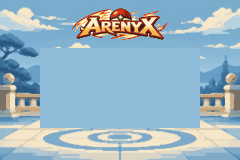
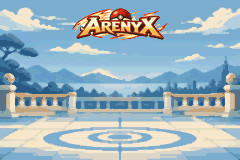
PokePvP (2026-10-14): menu music playlist + OPTIONS music on/off, full-scene menu backdrop, pill ONLINE badge

diff --git a/src/main_menu.c b/src/main_menu.c
@@ -270,6 +270,8 @@ enum MainMenuWindow
 // POKEPVP_POST_MATCH_ARRIVAL_WAIT_FRAMES check below).
 #define tPostMatchWaitFrames data[13]
 
+extern bool8 gDisableMusic;
+
 static bool32 MainMenuGpuInit(u8 a0);
 static void Task_SetWin0BldRegsAndCheckSaveFile(u8 taskId);
 static void PrintSaveErrorStatus(u8 taskId, const u8 *str);
@@ -771,7 +773,7 @@ static const u8 sText_QuickRulesLineElite[] = _("6v6 LVL100");
 // MAIN_MENU_WINDOW_ONLINE_COUNT is only 5 tiles/40px wide (the free
 // margin left of the panel, ADR-295), too narrow for "ONLINE: 42" on one
 // line, so it wraps to two.
-static const u8 sText_OnlineCountLabel[] = _("ONLINE:");
+static const u8 sText_OnlineCountLabel[] = _("ONLINE");
 // POKEPVP (UI plan slice 3): the ready-check prompt (Build Plan §8 item
 // 2 -- both players must confirm within the window; the gateway's
 // timeout frame budget is held ROM-side by ready_check.c).
@@ -1013,7 +1015,7 @@ static const struct WindowTemplate sWindowTemplate[] = {
     // for real text.
     [MAIN_MENU_WINDOW_ONLINE_COUNT] = {
         .bg = 0, .tilemapLeft = 0, .tilemapTop = 17, .width = 10, .height = 2,
-        .paletteNum = 15, .baseBlock = 0x241
+        .paletteNum = 14, .baseBlock = 0x241
     },
     // Owner-directed feature (2026-10-02): same size and baseBlock as
     // MAIN_MENU_WINDOW_CONTINUE (24x10 tiles, 0x001 -- see MAIN_MENU_
@@ -1248,7 +1250,6 @@ static const u8 sTextColorSelected[] = { 13, 14, 15 };
 // itself uses for every text layer drawn over a scene -- e.g.
 // option_menu.c's own sOptionMenuTextColor). Only this one window uses
 // it; every other menu row keeps its opaque cream box.
-static const u8 sTextColorOnlineCount[] = { TEXT_COLOR_TRANSPARENT, 11, 12 };
 
 static const u8 sTextColor2[] = { 10,  1, 12 };
 
@@ -1295,7 +1296,7 @@ static const struct BgTemplate sBgTemplate[] = {
     {
         .bg = 2,
         .charBaseIndex = 2,
-        .mapBaseIndex = 29,
+        .mapBaseIndex = 31, // 0xF800: the 2026-10-14 full-scene backdrop is 439 tiles (ends 0xEDC0), past block 29/0xE800; block 30 is BG0's map
         .paletteMode = 1, // 8bpp -- the backdrop's real color count (32) doesn't need this, but 8bpp sidesteps the 16-colors-per-4bpp-tile juggling entirely, and VRAM headroom is ample (see LoadPokePvPMenuBackdrop's own budget comment)
         .priority = 3
     }
@@ -1391,19 +1392,65 @@ static void LoadPokePvPMenuBackdrop(void)
 // PokePvP_MenuMusicInterrupted() when a battle takes over the BGM channel.
 static bool8 sPokePvPMenuMusicOn;
 
+// Playlist: Gym -> Victory Road -> Route 11 -> Oak tutorial -> Gym ... Songs loop
+// forever, so a frame timer (ticked from AgbMain, which runs under every
+// menu sub-screen's callback) crossfades to the next. EWRAM: IWRAM is full.
+#define MENU_PLAYLIST_LEN 4
+#define MENU_TRACK_FRAMES (60 * 90)
+static const u16 sMenuPlaylist[MENU_PLAYLIST_LEN] = { MUS_GYM, MUS_VICTORY_ROAD, MUS_ROUTE11, MUS_NEW_GAME_INSTRUCT };
+EWRAM_DATA static u8 sMenuTrack = 0;
+EWRAM_DATA static u8 sMenuFadingOut = FALSE;
+EWRAM_DATA static u32 sMenuTrackTimer = 0;
+
 void PokePvP_MenuMusicInterrupted(void)
 {
     sPokePvPMenuMusicOn = FALSE;
+    sMenuTrack = 0; // exiting a battle restarts from the Gym theme
+    sMenuFadingOut = FALSE;
+    sMenuTrackTimer = 0;
+}
+
+void PokePvP_MenuMusicTick(void)
+{
+    if (!sPokePvPMenuMusicOn)
+        return;
+    if (sMenuFadingOut)
+    {
+        if (IsBGMStopped())
+        {
+            sMenuFadingOut = FALSE;
+            sMenuTrackTimer = 0;
+            sMenuTrack = (sMenuTrack + 1) % MENU_PLAYLIST_LEN;
+            FadeInNewBGM(sMenuPlaylist[sMenuTrack], 4);
+        }
+    }
+    else if (++sMenuTrackTimer >= MENU_TRACK_FRAMES)
+    {
+        sMenuFadingOut = TRUE;
+        FadeOutBGM(4);
+    }
 }
 
 static bool32 MainMenuGpuInit(u8 a0)
 {
     u8 taskId;
 
+    // OPTIONS > MUSIC (regionMapZoom bit, 1 = OFF): gDisableMusic silences
+    // every BGM start (menu playlist and battle music alike).
+    gDisableMusic = gSaveBlock2Ptr->regionMapZoom;
     if (!sPokePvPMenuMusicOn)
     {
         sPokePvPMenuMusicOn = TRUE;
         FadeInNewBGM(MUS_GYM, 4);
+    }
+    else if (gDisableMusic)
+    {
+        FadeOutBGM(4);
+    }
+    else if (IsBGMStopped() && !sMenuFadingOut)
+    {
+        sMenuTrackTimer = 0;
+        FadeInNewBGM(sMenuPlaylist[sMenuTrack], 4);
     }
 
     PokePvP_SanitizePlayerName(); /* POKEPVP (ADR-159) */
@@ -1706,26 +1753,55 @@ static void Task_PrintMainMenuText(u8 taskId)
 // established. Draws nothing (leaves the window's last content alone)
 // until the first real push arrives (PokePvP_GetOnlineCount returns
 // FALSE before then) -- never shows a misleading "0".
+// Owner-directed redesign (2026-10-14): a small navy "pill" badge with a
+// green live dot and cream FONT_SMALL text ("42 ONLINE"), drawn straight
+// onto the backdrop (transparent window background). Own palette in bank
+// 14 (free: the backdrop uses banks 3-8, bank 15 is the list text).
+static const u16 sOnlineBadgePal[] = {
+    RGB(0, 0, 0),      // 0 transparent
+    RGB(4, 9, 17),     // 1 badge fill (navy)
+    RGB(31, 29, 23),   // 2 text (cream)
+    RGB(1, 3, 7),      // 3 text shadow
+    RGB(10, 27, 12),   // 4 live dot
+    RGB(21, 31, 20),   // 5 dot highlight
+    RGB(12, 20, 29),   // 6 badge rim (steel blue)
+};
+// bg = 0 (transparent): the glyph cell must not repaint over the badge rim
+static const u8 sTextColorOnlineBadge[] = { 0, 2, 3 };
+
+// Rounded rect: 1px-trimmed corners.
+static void FillOnlinePill(u8 color, u16 x, u16 y, u16 w, u16 h)
+{
+    FillWindowPixelRect(MAIN_MENU_WINDOW_ONLINE_COUNT, color, x + 1, y, w - 2, h);
+    FillWindowPixelRect(MAIN_MENU_WINDOW_ONLINE_COUNT, color, x, y + 1, w, h - 2);
+}
+
 static void DrawOnlineCountItem(void)
 {
     u16 count;
-    u8 buf[16];
+    u8 buf[24];
     u8 *dst;
+    u16 textW, badgeW, bx = 2, by = 2, bh = 12;
 
     if (!PokePvP_GetOnlineCount(&count))
         return;
-    // Owner-directed feature (2026-10-03): PIXEL_FILL(TEXT_COLOR_
-    // TRANSPARENT) instead of PIXEL_FILL(10) -- see sTextColorOnlineCount's
-    // own doc comment for why this is the one window on this screen drawn
-    // without an opaque backing box.
-    FillWindowPixelBuffer(MAIN_MENU_WINDOW_ONLINE_COUNT, PIXEL_FILL(TEXT_COLOR_TRANSPARENT));
-    dst = StringCopy(buf, sText_OnlineCountLabel);
+    LoadPalette(sOnlineBadgePal, BG_PLTT_ID(14), sizeof(sOnlineBadgePal));
+    FillWindowPixelBuffer(MAIN_MENU_WINDOW_ONLINE_COUNT, PIXEL_FILL(0));
+    dst = ConvertIntToDecimalStringN(buf, count, STR_CONV_MODE_LEFT_ALIGN, 5);
     *dst++ = CHAR_SPACE;
-    dst = ConvertIntToDecimalStringN(dst, count, STR_CONV_MODE_LEFT_ALIGN, 5);
+    dst = StringCopy(dst, sText_OnlineCountLabel);
     *dst = EOS;
-    AddTextPrinterParameterized3(MAIN_MENU_WINDOW_ONLINE_COUNT, FONT_NORMAL, 1, 2, sTextColorOnlineCount, -1, buf);
+    textW = GetStringWidth(FONT_SMALL, buf, 0);
+    badgeW = textW + 18;
+    FillOnlinePill(6, bx, by, badgeW, bh);
+    FillOnlinePill(1, bx + 1, by + 1, badgeW - 2, bh - 2);
+    // live dot (5x5 disc) with a highlight pixel
+    FillWindowPixelRect(MAIN_MENU_WINDOW_ONLINE_COUNT, 4, bx + 6, by + 4, 3, 5);
+    FillWindowPixelRect(MAIN_MENU_WINDOW_ONLINE_COUNT, 4, bx + 5, by + 5, 5, 3);
+    FillWindowPixelRect(MAIN_MENU_WINDOW_ONLINE_COUNT, 5, bx + 6, by + 5, 1, 1);
+    AddTextPrinterParameterized3(MAIN_MENU_WINDOW_ONLINE_COUNT, FONT_SMALL, bx + 13, by - 1, sTextColorOnlineBadge, -1, buf);
     PutWindowTilemap(MAIN_MENU_WINDOW_ONLINE_COUNT);
-    CopyWindowToVram(MAIN_MENU_WINDOW_ONLINE_COUNT, COPYWIN_GFX);
+    CopyWindowToVram(MAIN_MENU_WINDOW_ONLINE_COUNT, COPYWIN_FULL);
 }
 
 // See this function's own forward-declaration comment: unmaps the

diff --git a/src/option_menu.c b/src/option_menu.c
@@ -22,7 +22,7 @@ enum
     MENUITEM_BATTLESTYLE,
     MENUITEM_SOUND,
     MENUITEM_BUTTONMODE,
-    MENUITEM_FRAMETYPE,
+    MENUITEM_MUSIC, // POKEPVP: replaces FRAME (window frame stays at the saved value); stored in the unused regionMapZoom bit, 1 = OFF
     MENUITEM_CANCEL,
     MENUITEM_COUNT
 };
@@ -132,7 +132,9 @@ static const struct BgTemplate sOptionMenuBgTemplates[] =
 
 static const u16 sOptionMenuPalette[] = INCBIN_U16("graphics/misc/option_menu.gbapal");
 // POKEPVP: BUTTONMODE count dropped 3->2 (HELP removed, see sButtonTypeOptions).
-static const u16 sOptionMenuItemCounts[MENUITEM_COUNT] = {3, 2, 2, 2, 2, 10, 0};
+static const u16 sOptionMenuItemCounts[MENUITEM_COUNT] = {3, 2, 2, 2, 2, 2, 0};
+
+static const u8 sText_Music[] = _("MUSIC");
 
 static const u8 *const sOptionMenuItemsNames[MENUITEM_COUNT] =
 {
@@ -141,7 +143,7 @@ static const u8 *const sOptionMenuItemsNames[MENUITEM_COUNT] =
     [MENUITEM_BATTLESTYLE] = gText_BattleStyle,
     [MENUITEM_SOUND]       = gText_Sound,
     [MENUITEM_BUTTONMODE]  = gText_ButtonMode,
-    [MENUITEM_FRAMETYPE]   = gText_Frame,
+    [MENUITEM_MUSIC]       = sText_Music,
     [MENUITEM_CANCEL]      = gText_OptionMenuCancel,
 };
 
@@ -186,6 +188,8 @@ static const u8 *const sButtonTypeOptions[] =
 static const u8 sOptionMenuPickSwitchCancelTextColor[] = {TEXT_DYNAMIC_COLOR_6, TEXT_COLOR_WHITE, TEXT_COLOR_DARK_GRAY};
 static const u8 sOptionMenuTextColor[] = {TEXT_COLOR_TRANSPARENT, TEXT_COLOR_LIGHT_RED, TEXT_COLOR_RED};
 
+extern bool8 gDisableMusic;
+
 // Functions
 static void CB2_InitOptionMenu(void)
 {
@@ -222,7 +226,7 @@ void CB2_OptionsMenuFromStartMenu(void)
     if (gSaveBlock2Ptr->optionsButtonMode == OPTIONS_BUTTON_MODE_HELP)
         gSaveBlock2Ptr->optionsButtonMode = OPTIONS_BUTTON_MODE_LR;
     sOptionMenuPtr->option[MENUITEM_BUTTONMODE] = gSaveBlock2Ptr->optionsButtonMode - 1;
-    sOptionMenuPtr->option[MENUITEM_FRAMETYPE] = gSaveBlock2Ptr->optionsWindowFrameType;
+    sOptionMenuPtr->option[MENUITEM_MUSIC] = gSaveBlock2Ptr->regionMapZoom;
     
     for (i = 0; i < MENUITEM_COUNT - 1; i++)
     {
@@ -348,10 +352,10 @@ static bool8 LoadOptionMenuPalette(void)
     switch (sOptionMenuPtr->loadPaletteState)
     {
     case 0:
-        LoadBgTiles(1, GetUserWindowGraphics(sOptionMenuPtr->option[MENUITEM_FRAMETYPE])->tiles, 0x120, 0x1AA);
+        LoadBgTiles(1, GetUserWindowGraphics(gSaveBlock2Ptr->optionsWindowFrameType)->tiles, 0x120, 0x1AA);
         break;
     case 1:
-        LoadPalette(GetUserWindowGraphics(sOptionMenuPtr->option[MENUITEM_FRAMETYPE])->palette, BG_PLTT_ID(2), PLTT_SIZE_4BPP);
+        LoadPalette(GetUserWindowGraphics(gSaveBlock2Ptr->optionsWindowFrameType)->palette, BG_PLTT_ID(2), PLTT_SIZE_4BPP);
         break;
     case 2:
         LoadPalette(sOptionMenuPalette, BG_PLTT_ID(1), sizeof(sOptionMenuPalette));
@@ -392,8 +396,8 @@ static void Task_OptionMenu(u8 taskId)
             sOptionMenuPtr->loadState++;
             break;
         case 2:
-            LoadBgTiles(1, GetUserWindowGraphics(sOptionMenuPtr->option[MENUITEM_FRAMETYPE])->tiles, 0x120, 0x1AA);
-            LoadPalette(GetUserWindowGraphics(sOptionMenuPtr->option[MENUITEM_FRAMETYPE])->palette, BG_PLTT_ID(2), PLTT_SIZE_4BPP);
+            LoadBgTiles(1, GetUserWindowGraphics(gSaveBlock2Ptr->optionsWindowFrameType)->tiles, 0x120, 0x1AA);
+            LoadPalette(GetUserWindowGraphics(gSaveBlock2Ptr->optionsWindowFrameType)->palette, BG_PLTT_ID(2), PLTT_SIZE_4BPP);
             BufferOptionMenuString(sOptionMenuPtr->cursorPos);
             break;
         case 3:
@@ -430,10 +434,7 @@ static u8 OptionMenu_ProcessInput(void)
             sOptionMenuPtr->option[sOptionMenuPtr->cursorPos] = 0;
         else
             sOptionMenuPtr->option[sOptionMenuPtr->cursorPos] = current + 1;
-        if (sOptionMenuPtr->cursorPos == MENUITEM_FRAMETYPE)
-            return 2;
-        else
-            return 4;
+        return 4;
     }
     else if (JOY_REPT(DPAD_LEFT))
     {
@@ -443,10 +444,7 @@ static u8 OptionMenu_ProcessInput(void)
         else
             --*curr;
         
-        if (sOptionMenuPtr->cursorPos == MENUITEM_FRAMETYPE)
-            return 2;
-        else
-            return 4;
+        return 4;
     }
     else if (JOY_REPT(DPAD_UP))
     {
@@ -476,8 +474,6 @@ static u8 OptionMenu_ProcessInput(void)
 
 static void BufferOptionMenuString(u8 selection)
 {
-    u8 str[20];
-    u8 buf[12];
     u8 dst[3];
     u8 x, y;
     
@@ -503,11 +499,8 @@ static void BufferOptionMenuString(u8 selection)
     case MENUITEM_BUTTONMODE:
         AddTextPrinterParameterized3(1, FONT_NORMAL, x, y, dst, -1, sButtonTypeOptions[sOptionMenuPtr->option[selection]]);
         break;
-    case MENUITEM_FRAMETYPE:
-        StringCopy(str, gText_FrameType);
-        ConvertIntToDecimalStringN(buf, sOptionMenuPtr->option[selection] + 1, 1, 2);
-        StringAppendN(str, buf, 3);
-        AddTextPrinterParameterized3(1, FONT_NORMAL, x, y, dst, -1, str);
+    case MENUITEM_MUSIC:
+        AddTextPrinterParameterized3(1, FONT_NORMAL, x, y, dst, -1, sBattleSceneOptions[sOptionMenuPtr->option[selection]]);
         break;
     default:
         break;
@@ -527,7 +520,8 @@ static void CloseAndSaveOptionMenu(u8 taskId)
     gSaveBlock2Ptr->optionsSound = sOptionMenuPtr->option[MENUITEM_SOUND];
     // POKEPVP: convert back from the 0-based 2-entry (LR/L=A) representation.
     gSaveBlock2Ptr->optionsButtonMode = sOptionMenuPtr->option[MENUITEM_BUTTONMODE] + 1;
-    gSaveBlock2Ptr->optionsWindowFrameType = sOptionMenuPtr->option[MENUITEM_FRAMETYPE];
+    gSaveBlock2Ptr->regionMapZoom = sOptionMenuPtr->option[MENUITEM_MUSIC];
+    gDisableMusic = gSaveBlock2Ptr->regionMapZoom;
     SetPokemonCryStereo(gSaveBlock2Ptr->optionsSound);
     FREE_AND_SET_NULL(sOptionMenuPtr);
     DestroyTask(taskId);

diff --git a/src/main.c b/src/main.c
@@ -224,6 +224,7 @@ void AgbMain()
 
         PlayTimeCounter_Update();
         MapMusicMain();
+        PokePvP_MenuMusicTick();
         // POKEPVP (ADR-062): pumps at most one mailbox record per real
         // frame, unconditionally -- this is the actual "host-side pump
         // driven at defined frame boundaries" (Phase 3.5) live-wiring;

diff --git a/include/main_menu.h b/include/main_menu.h
@@ -3,5 +3,6 @@
 
 void CB2_InitMainMenu(void);
 void PokePvP_MenuMusicInterrupted(void);
+void PokePvP_MenuMusicTick(void);
 
 #endif //GUARD_MAIN_MENU_H
